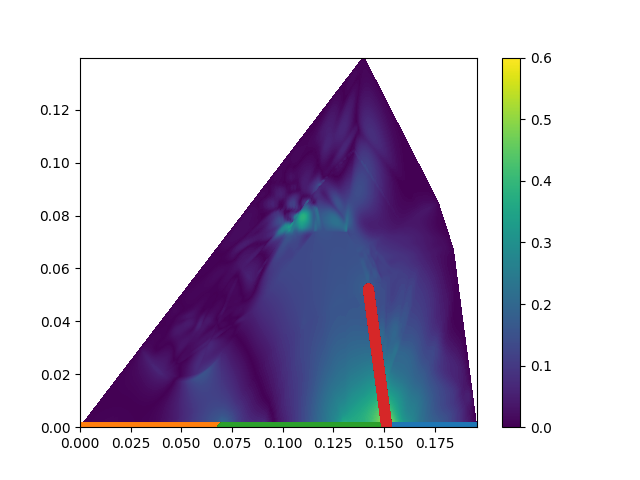
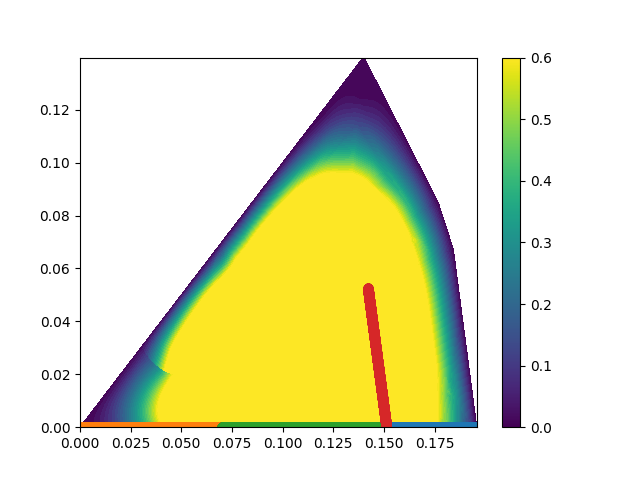
started implementing neumann ansatz functions

Changed region(s): [[0.1562, 0.2188, 0.75, 0.9062]]

diff --git a/main.py b/main.py
@@ -116,6 +116,7 @@ class Model(src.PINN):
                                                            
         # Interfaces to Air1                                
         self.add_flax_network('u56', feat_bndr, act_bndr, load, path)
+        self.add_flax_network('u5neum', feat_bndr, act_bndr, load, path)
                                                              
         # Interfaces to Air2                                  
         self.add_flax_network('u67', feat_bndr, act_bndr, load, path)
@@ -352,7 +353,6 @@ class Model(src.PINN):
         ys_, _, _ = bnd_quadrature(iron_yoke_r_low, 0, 1, ys)
         plt.scatter(iron_yoke_r_low.__call__(ys_)[:,0], iron_yoke_r_low.__call__(ys_)[:,1])
         plt.savefig('bnd_pic.png')
-        exit()
         return points
 
 
@@ -512,14 +512,20 @@ class Model(src.PINN):
         
         # Ansatz Function: v(x,y) = (1-x)*(1-y)*(1+y) -> (x+1) missing due to Neumann bc
         #------------------------------------------------------------------------------#
-        v = ((1 - x[...,1]) * (x[...,1] + 1) * (1 - x[...,0]))[...,None]
-        # v = ((1 - x[...,1]) * (x[...,1] + 1) )[...,None]
+        # v = ((1 - x[...,1]) * (x[...,1] + 1) * (1 - x[...,0]))[...,None]**2
+        v = ((1 - x[...,1]) * (x[...,1] + 1) * (1 - x[...,0]) * (x[...,0] + 1))[...,None]**2                     #[check]
         
         # Interface functios for the Air1 domain
         #------------------------------------------------------------------------------#
-        w51 = self.interface51(ws['u15'],x) * ((1 - x[...,1]) * (x[...,1] + 1))[...,None]
-        w56 = self.interface56(ws['u56'],x) * ((x[...,0] + 1) * (1 - x[...,0]) )[...,None]
+        # w51 = self.interface51(ws['u15'],x) * ((1 - x[...,1]) * (x[...,1] + 1))[...,None]
+        w51 = self.interface51(ws['u15'],x) *( (x[...,0] + 1) * (1 - x[...,1]) * (x[...,1] + 1))[...,None]
+        w56 = self.interface56(ws['u56'],x) * (((x[...,0] + 1) * (1 - x[...,0]) )**2)[...,None]
         
+
+
+        w5neum = self.neural_networks['u5neum'].apply(ws['u5neum'], x[...,1][...,None])
+        w5neum = w5neum * (1/4 * (x[...,0] + 3) * (1 - x[...,0]) * ( x[...,1] + 1) * (1-x[...,1]) )[...,None]   #[check]
+        # w5neum = w5neum * (-1/2 * (x[...,0] - 1) * ( x[...,1] + 1) * ( 1 - x[...,1]) )[...,None]
 
 
         # w56 = self.interface56(ws['u56'],x) * ((1 + x[...,0]) )[...,None]
@@ -529,14 +535,16 @@ class Model(src.PINN):
 
         # Function coinciding on the three subdomains
         #------------------------------------------------------------------------------#
-        w156 = ws['u156']*( (1 + x[...,0]) * ( 1 + x[...,1]) )[...,None]**alpha
+        w156 = ws['u156']*( (1 + x[...,0]) * ( 1 + x[...,1]) )[...,None]**2
         w567 = ws['u567']*( (1 - x[...,0]) * ( x[...,1] + 1) )[...,None]**alpha
+
+        # w567 = ( w567 * (1/2) * (x[...,0] + 3) )[...,None]**alpha
         #------------------------------------------------------------------------------#
         # w156 = u_{156} * ((x+1)*(y+1))^alpha   |
         # w567 = u_{567} * ((1-x)*(y+1))^alpha   |
 
-        w = w51 + w56 + w567 + w156
-        return u * v + w
+        w = w5neum + w51 + w56 + w156 + w567
+        return u*v + w
         
 
 
@@ -550,7 +558,7 @@ class Model(src.PINN):
         # NN defined on the Air2 domain
         u = self.neural_networks['u6'].apply(ws['u6'],x)
 
-        # Ansatz Function: v(x,y) = (1-x)*(x+1)*(1-y)*(y+1)5.4588287068061385
+        # Ansatz Function: v(x,y) = (1-x)*(x+1)*(1-y)*(y+1)
         #------------------------------------------------------------------------------#
         v = ((1 - x[...,0]) * (x[...,0] + 1) * (1 - x[...,1]) * (x[...,1] + 1))[...,None]
         # v = ((1 - x[...,0]) * (1 - x[...,1]) * (x[...,1] + 1))[...,None]
@@ -574,6 +582,7 @@ class Model(src.PINN):
         # Function coinciding on multiple subdomains
         #------------------------------------------------------------------------------#
         w567  = ws['u567']   *  ( (x[...,0] + 1) * (x[...,1] + 1) )[...,None]**alpha
+        # w567 = ( w567 * (1/2) * (3 - x[...,0]) )[...,None]**alpha
         w1268 = ws['u1268']  *  ( (1 - x[...,0]) * (1 - x[...,1]) )[...,None]**alpha
         w678  = ws['u678']   *  ( (x[...,0] + 1) * (1 - x[...,1]) )[...,None]**alpha
         w156  = ws['u156']   *  ( (1 - x[...,0]) * (x[...,1] + 1) )[...,None]**alpha
@@ -742,10 +751,10 @@ class Model(src.PINN):
 
     def loss(self, ws, pts):
         lpde = self.loss_pde(ws, pts)
-        l_neum4 = self.loss_neum4(ws, points)
+        #l_neum4 = self.loss_neum4(ws, points)
         l_neum5 = self.loss_neum5(ws, points)
         l_neum7 = self.loss_neum7(ws, points)
-        return lpde + ( l_neum4 + l_neum5 + l_neum7)
+        return lpde + (l_neum5 + l_neum7)
     
 
     def loss_neum4(self, ws, points):
@@ -753,6 +762,7 @@ class Model(src.PINN):
         out = model.solution4(ws, points['ys_bnd4'])
         cc = cc[:,:,1] * out 
         cc = 1/(self.mu0*self.mur) * cc
+        #cc = cc[:,:,1] **2
         cc = cc * points['omega_bnd4']
         cc = cc * points['ws_bnd4']
         val = jnp.sum(cc)
@@ -770,7 +780,8 @@ class Model(src.PINN):
     def loss_neum7(self, ws, points):
         cc = src.operators.gradient(lambda x : model.solution7(ws,x))(points['ys_bnd7'])
         out = model.solution7(ws, points['ys_bnd7'])
-        cc = cc[:,:,1] * out 
+        cc = cc[:,:,1] * out
+        #cc = cc[:,:,1]**2
         cc = cc * points['omega_bnd7']
         cc= cc * points['ws_bnd7']
         val = jnp.sum(cc)
@@ -783,11 +794,12 @@ model = Model(rnd_key)                  # Instantiate PINN model
 w0 = model.init_unravel()               # Instantiate NN weights
 weights = model.weights                 # Retrieve weights to initialize the optimizer 
 model_idxs = [0,1,2,3,4,5,6,7]
+key = jax.random.PRNGKey(np.random.randint(745938247569238463))                     # Generate an PRND key to initialize the MC sampling routine
 #------------------------------Optimization parameters ------------------------------------#
 opt_type = 'ADAMax'                                                         # Optimizer name
-batch_size = 20000                                                          # Number of sample points for quadrature (MC integration) 
-stepsize = 0.0001                                                            # Stepsize for Optimizer aka. learning rate
-n_epochs = 500                                                              # Number of optimization epochs
+batch_size = 10000                                                          # Number of sample points for quadrature (MC integration) 
+stepsize = 0.005                                                            # Stepsize for Optimizer aka. learning rate
+n_epochs = 300                                                              # Number of optimization epochs
 path_coor = './fem_ref/coordinates.csv'                                     # Path to coordinates to evaluate the NN solution
 path_refs = './parameters/quad/mu_2k/ref_values.csv'                        # FEM reference solution
 
@@ -795,14 +807,12 @@ get_compiled = jax.jit(lambda key: model.get_points_MC(batch_size, key))    # JI
 opt_init, opt_update, get_params = optimizers.adamax(step_size=stepsize)    # Instantiate the optimizer
 opt_state = opt_init(weights)                                               # Initialize the optimizer with the NN weights
 params = get_params(opt_state)                                              # Retrieve the trainable weights for the optimizer as a dict
-
-
-
+#points = model.get_points_MC(batch_size, key)                               # Generate the MC samples
+#model.loss_neum5(params, points)
 evaluate_error(model, params, evaluate_models, model_idxs, path_coor, path_refs)        # Evaluate the model error before training
 loss_grad = jax.jit(lambda ws, pts: (model.loss(ws, pts), jax.grad(model.loss)(ws, pts))) # JIT compile the loss function before training
 # loss_grad = lambda ws, pts: (model.loss(ws, pts), jax.grad(model.loss)(ws, pts))
 
-key = jax.random.PRNGKey(np.random.randint(745938247569238463))                     # Generate an PRND key to initialize the MC sampling routine
 points = model.get_points_MC(batch_size, key)                               # Generate the MC samples
 
 #------------------------------Optimization Step-------------------------------------------#
